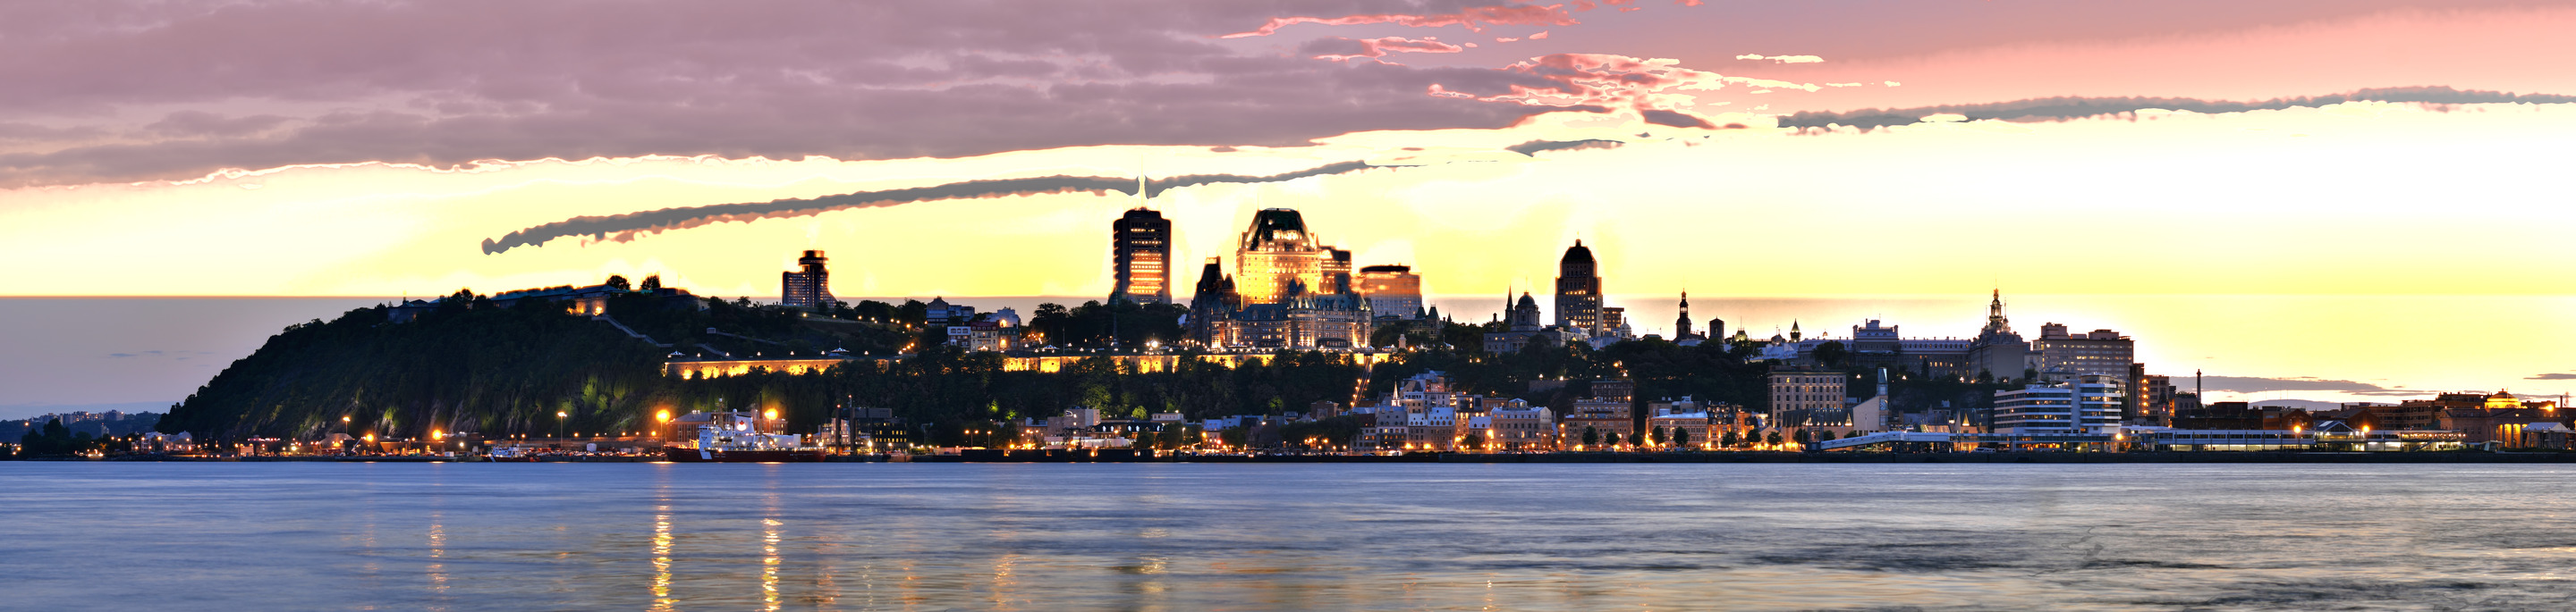
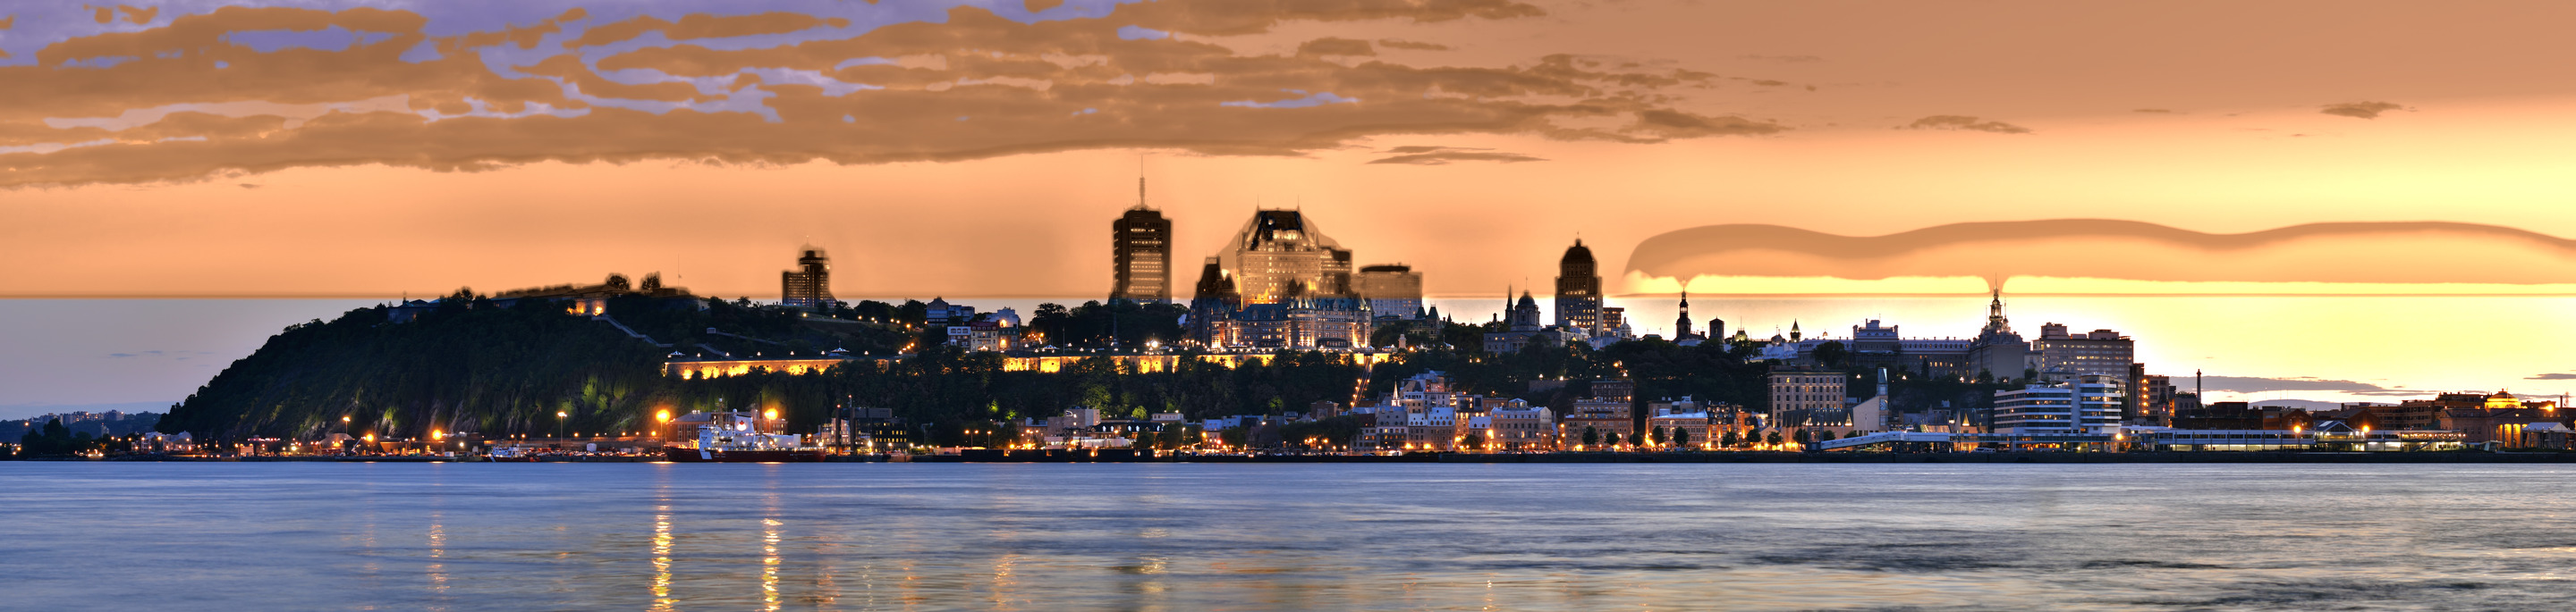
Doodle : titre Pricedown net, ligne de ville lisible, bouton shuffle
Le lettrage n’hérite plus de l’ombre serif du mât photo (doublage et
barre horizontale). Le SVG reprend le viewBox de titre-seul. La ligne
« Ville de …, QC » a son propre espace, lisible à 390 px, sans
chevaucher la devise ni la barre des réseaux. Le bouton de rotation
reste visible comme sur le mât habituel (sans effet tant que le doodle
est affiché). Les rubans d’horizon sont teintés dans le coucher de
soleil, sans liseré rose sur les nuages du haut.

diff --git a/style-masthead.css b/style-masthead.css
@@ -1358,19 +1358,26 @@ html.doodle-on[data-doodle-city="quebec"] #bg-photo-layer {
   background-repeat: no-repeat;
   opacity: 1;
 }
-html.doodle-on #masthead-bg-shuffle,
-html.doodle-on .masthead-shuffle-slot { display: none !important; }
+/* Le bouton shuffle reste visible (même rangée que sur le mât habituel).
+   Le clic est un no-op tant que le doodle est actif, pour garder la photo. */
 
-/* Titre Pricedown (image fixe, pas de police) à la place du lettrage serif.
-   Le texte LE-RADAR.ca reste dans le DOM pour les lecteurs d’écran. */
+/* Titre Pricedown (SVG, pas de police) à la place du lettrage serif.
+   Le texte LE-RADAR.ca reste dans le DOM pour les lecteurs d’écran.
+   On annule text-shadow / stroke hérités du mât photo : sinon le serif
+   transparent se dessine en fantôme (doublage, barre horizontale).
+   ViewBox du SVG : titre-seul (contour 102, marge pour ne pas rogner). */
 html.doodle-on .wordmark-brand {
   display: inline-block;
-  color: transparent;
-  overflow: hidden;
+  color: transparent !important;
+  -webkit-text-fill-color: transparent !important;
+  text-shadow: none !important;
+  -webkit-text-stroke: 0 !important;
+  overflow: visible;
   vertical-align: middle;
-  background: url("assets/doodle/le-radar-pricedown.svg") no-repeat left center / contain;
-  height: 0.88em;
-  width: 5.7em; /* rapport du SVG (~6,45) × 0,88 */
+  background: url("assets/doodle/le-radar-pricedown.svg") no-repeat center / contain;
+  width: 5.7em;
+  height: auto;
+  aspect-ratio: 5079 / 821;
   max-width: 72vw;
 }
 html.doodle-on .wordmark-logo {
@@ -1391,8 +1398,9 @@ html.doodle-on .wordmark-brand {
 }
 @media (max-width: 599.98px) {
   html.doodle-on .wordmark-brand {
-    height: 0.98em;
-    width: min(6.35em, 72vw); /* 0,98 × rapport ~6,45 du SVG */
+    width: min(6.35em, 72vw);
+    height: auto;
+    aspect-ratio: 5079 / 821;
   }
 }
 
@@ -1405,10 +1413,17 @@ html.doodle-on .wordmark-brand {
   font-display: swap;
 }
 html.doodle-on .wordmark-mark {
-  display: inline-flex;
+  display: flex;
   flex-wrap: wrap;
   justify-content: center;
   align-items: center;
+  width: 100%;
+  height: auto;
+  overflow: visible;
+  column-gap: 0.16em;
+  row-gap: 0.42rem;
+  /* Annule le halo serif du mât photo ; le ::after a son propre glow. */
+  text-shadow: none;
 }
 html.doodle-on[data-doodle-city="montreal"] .wordmark-mark::after {
   content: "Ville de Montréal, QC";
@@ -1419,15 +1434,16 @@ html.doodle-on[data-doodle-city="quebec"] .wordmark-mark::after {
 html.doodle-on .wordmark-mark::after {
   flex: 0 0 100%;
   display: block;
+  position: static;
   box-sizing: border-box;
-  width: min(22.5rem, 92vw);
-  margin: 0.12em auto 0;
-  padding: 0 0.2em;
+  width: min(24rem, 94vw);
+  margin: 0 auto 0.2rem;
+  padding: 0.05em 0.35em 0.12em;
   font-family: "Kaushan Script", cursive;
   font-weight: 400;
   font-style: normal;
-  font-size: 1.3rem;
-  line-height: 1.15;
+  font-size: clamp(1.2rem, 1.05rem + 1.15vw, 1.75rem);
+  line-height: 1.2;
   letter-spacing: 0.01em;
   word-spacing: 0.28em;
   text-align: center;
@@ -1438,11 +1454,27 @@ html.doodle-on .wordmark-mark::after {
     0 1px 2px rgba(20, 0, 10, 0.7);
   pointer-events: none;
 }
+/* Air entre la ligne de ville et la pastille-devise (bureau). */
+@media (min-width: 600px) {
+  html.doodle-on .wordmark {
+    gap: 14px;
+  }
+}
+/* Téléphone : ligne lisible, pas recouverte par la barre des réseaux. */
 @media (max-width: 599.98px) {
+  html.doodle-on .wordmark-mark {
+    row-gap: 0.32rem;
+  }
   html.doodle-on .wordmark-mark::after {
-    width: min(20rem, 94vw);
-    margin-top: 0.08em;
-    font-size: 0.95rem;
-    line-height: 1.1;
+    width: min(22rem, 96vw);
+    margin: 0 auto 0.28rem;
+    font-size: 1.2rem;
+    line-height: 1.2;
+  }
+  html.doodle-on .masthead-brand:has(.masthead-social) {
+    gap: 12px;
+  }
+  html.doodle-on .masthead-social--under-tagline {
+    margin-top: 6px;
   }
 }

diff --git a/quebec-backgrounds.js b/quebec-backgrounds.js
@@ -2636,13 +2636,8 @@
   function _applyDoodleBackground() {
     const bg = _doodleBackground();
     _paintBackground(bg, bg.url, null);
-    const slot = document.querySelector(".masthead-shuffle-slot");
-    if (slot) slot.setAttribute("hidden", "");
-    const btn = document.getElementById("masthead-bg-shuffle");
-    if (btn) {
-      btn.setAttribute("hidden", "");
-      btn.setAttribute("aria-hidden", "true");
-    }
+    /* Bouton shuffle : visible comme sur le mât habituel.
+       shuffleMastheadBackground() reste un no-op tant que le doodle est on. */
   }
 
   function init() {

diff --git a/sports/sw.js b/sports/sw.js
@@ -22,7 +22,7 @@
 
 importScripts('../scripts/sports-document-refresh.js');
 
-const SHELL_CACHE  = 'sports-shell-v445';
+const SHELL_CACHE  = 'sports-shell-v446';
 const FONT_CACHE   = 'sports-fonts-v2';
 const CACHE_PREFIX = 'sports-';
 const KNOWN_CACHES = [SHELL_CACHE, FONT_CACHE];

diff --git a/sw.js b/sw.js
@@ -1,4 +1,4 @@
-const CACHE_NAME = "radar-shell-v1069";
+const CACHE_NAME = "radar-shell-v1070";
 const CACHE_PREFIX = "radar-";
 /** Cache permanent : page maintenance / hors-ligne (ne se purge pas au bump shell). */
 const OFFLINE_CACHE = "radar-offline-v23";

diff --git a/CHANGELOG.md b/CHANGELOG.md
@@ -7,7 +7,7 @@ et respecte le [versionnage sémantique](https://semver.org/lang/fr/).
 
 ### Ajouté
 
-- Doodle de fin novembre 2026 (mât) : titre LE-RADAR.ca en image Pricedown, photos de Montréal (Stefan Fussan) et de Québec (Martin St-Amant), CC BY-SA 3.0, couleurs modifiées (étalonnage façon coucher de soleil GTA VI, depuis les originaux Commons), nom de la ville (« Ville de Montréal, QC » ou « Ville de Québec, QC ») en police Kaushan Script (SIL OFL), tirage de la ville à parts égales et gardé pour la session, tirage aléatoire 1 sur 5 avant le premier affichage, interrupteurs `?doodle=on` et `?doodle=off`, fin le 30 novembre 2026 à 23 h 59 (heure de Montréal). Sur téléphone, le logo officiel reste à gauche du titre, comme sur le mât habituel. Le pied de page n’est pas modifié.
+- Doodle de fin novembre 2026 (mât) : titre LE-RADAR.ca en image Pricedown, photos de Montréal (Stefan Fussan) et de Québec (Martin St-Amant), CC BY-SA 3.0, couleurs modifiées (étalonnage façon coucher de soleil GTA VI, depuis les originaux Commons), nom de la ville (« Ville de Montréal, QC » ou « Ville de Québec, QC ») en police Kaushan Script (SIL OFL), tirage de la ville à parts égales et gardé pour la session, tirage aléatoire 1 sur 5 avant le premier affichage, interrupteurs `?doodle=on` et `?doodle=off`, fin le 30 novembre 2026 à 23 h 59 (heure de Montréal). Sur téléphone, le logo officiel reste à gauche du titre, comme sur le mât habituel. Le lettrage Pricedown est une image SVG (viewBox titre-seul), sans ombre serif fantôme. La ligne de ville a son propre espace, lisible à 390 px, sans chevaucher la devise ni la barre des réseaux. Le bouton de rotation du fond reste visible comme sur le mât habituel (sans effet tant que le doodle est affiché). Le pied de page n’est pas modifié.
 - Barre radio partagée `radio-barre.js` : un appel d’une ligne pose la barre (stations de `radios.json`, émission en cours, lecture et arrêt, volume au bureau, petit logo LE-RADAR). Pomodoro et Solitaire l’utilisent à la place de l’iframe `tuner-embed.html` ; les journaux du Kiosque l’appellent depuis le-radar.ca, donc un changement de station, de code ou de style leur arrive sans mise à jour. Sans réponse de LE-RADAR, la barre ne s’affiche pas. Pomodoro et Solitaire ont `media-src https:` pour les flux.
 - Compteur anonyme du bandeau sportif, éteint. Un clic n’envoie rien. La page Mise à jour n’a que la ligne Socle. Le script Umami déjà en place n’est pas retiré.
 - Poids du bandeau, éteint. À heure égale et dans le même seau, une moyenne de clics ne départage que si l’interrupteur, quatre à huit semaines et un seuil fourni sont réunis. Sinon l’ordre reste celui du jour. La phrase de politique n’est pas publiée.
